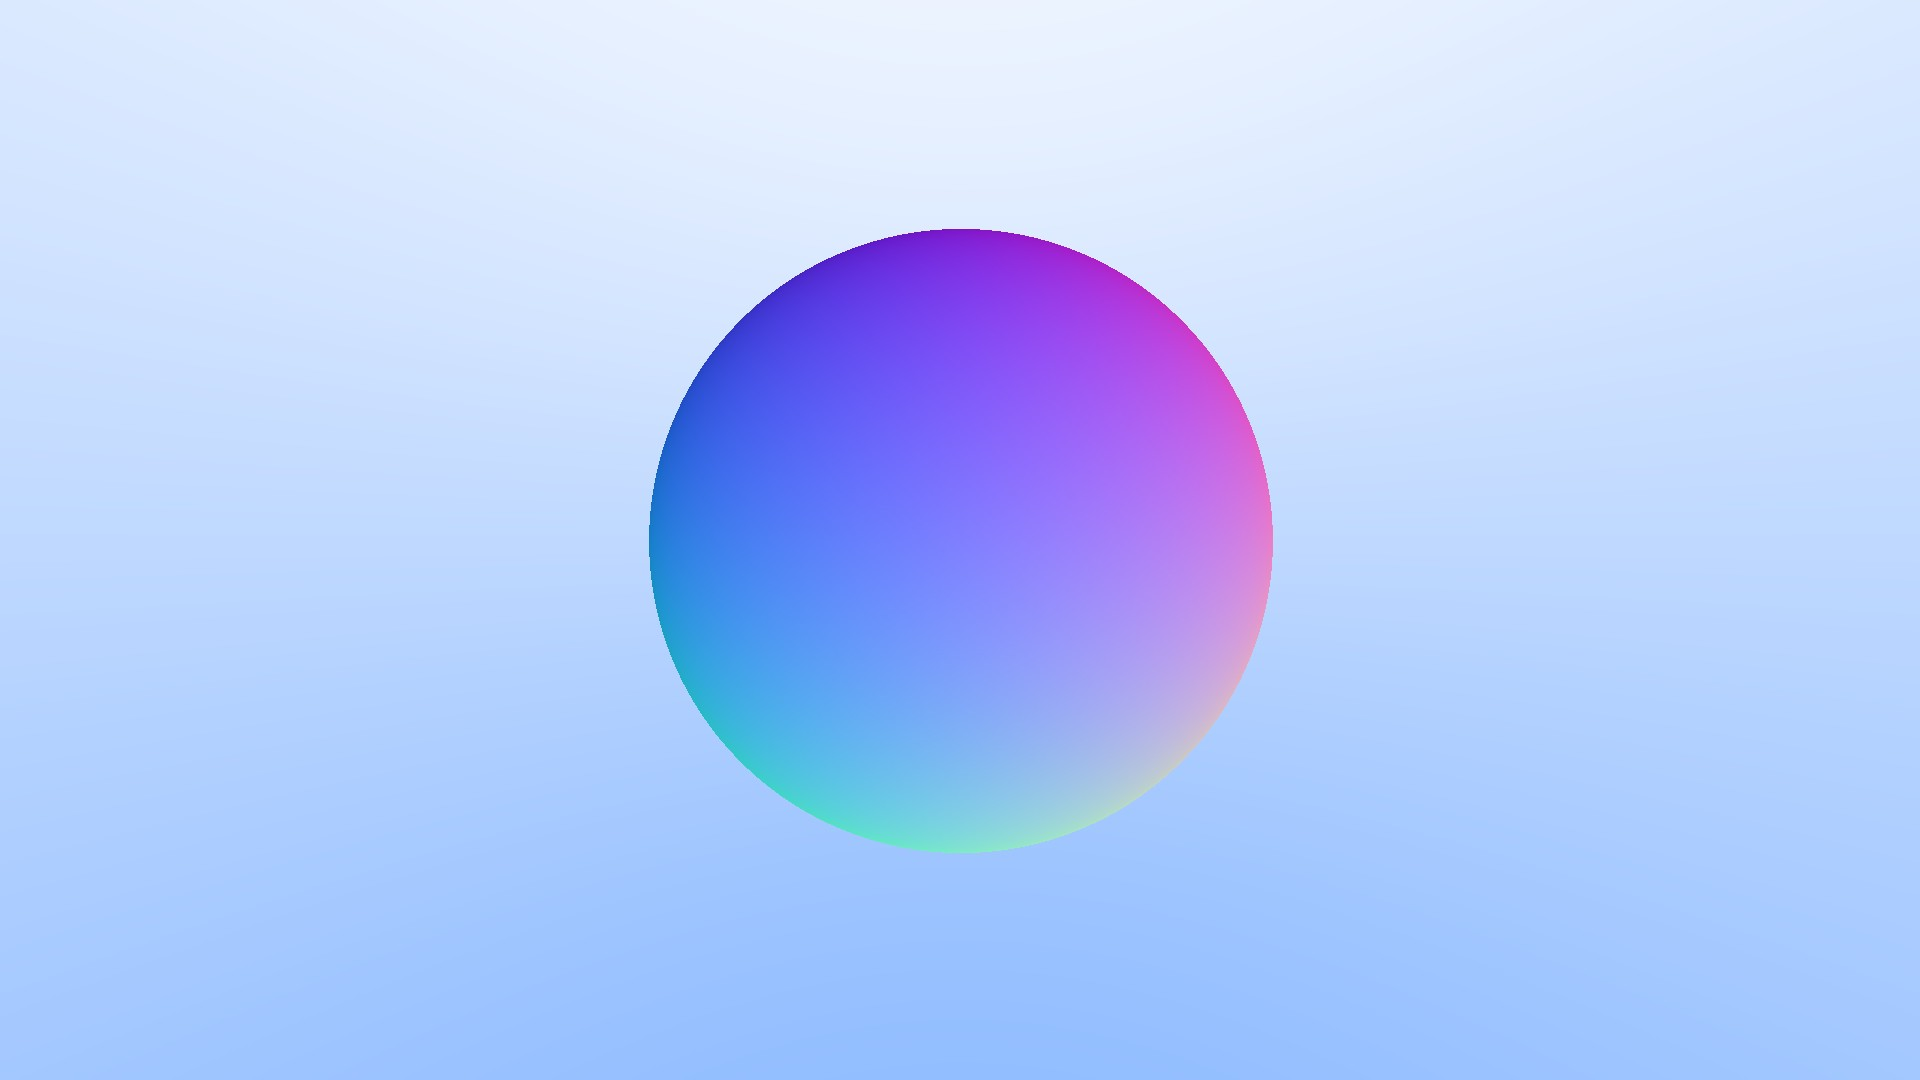
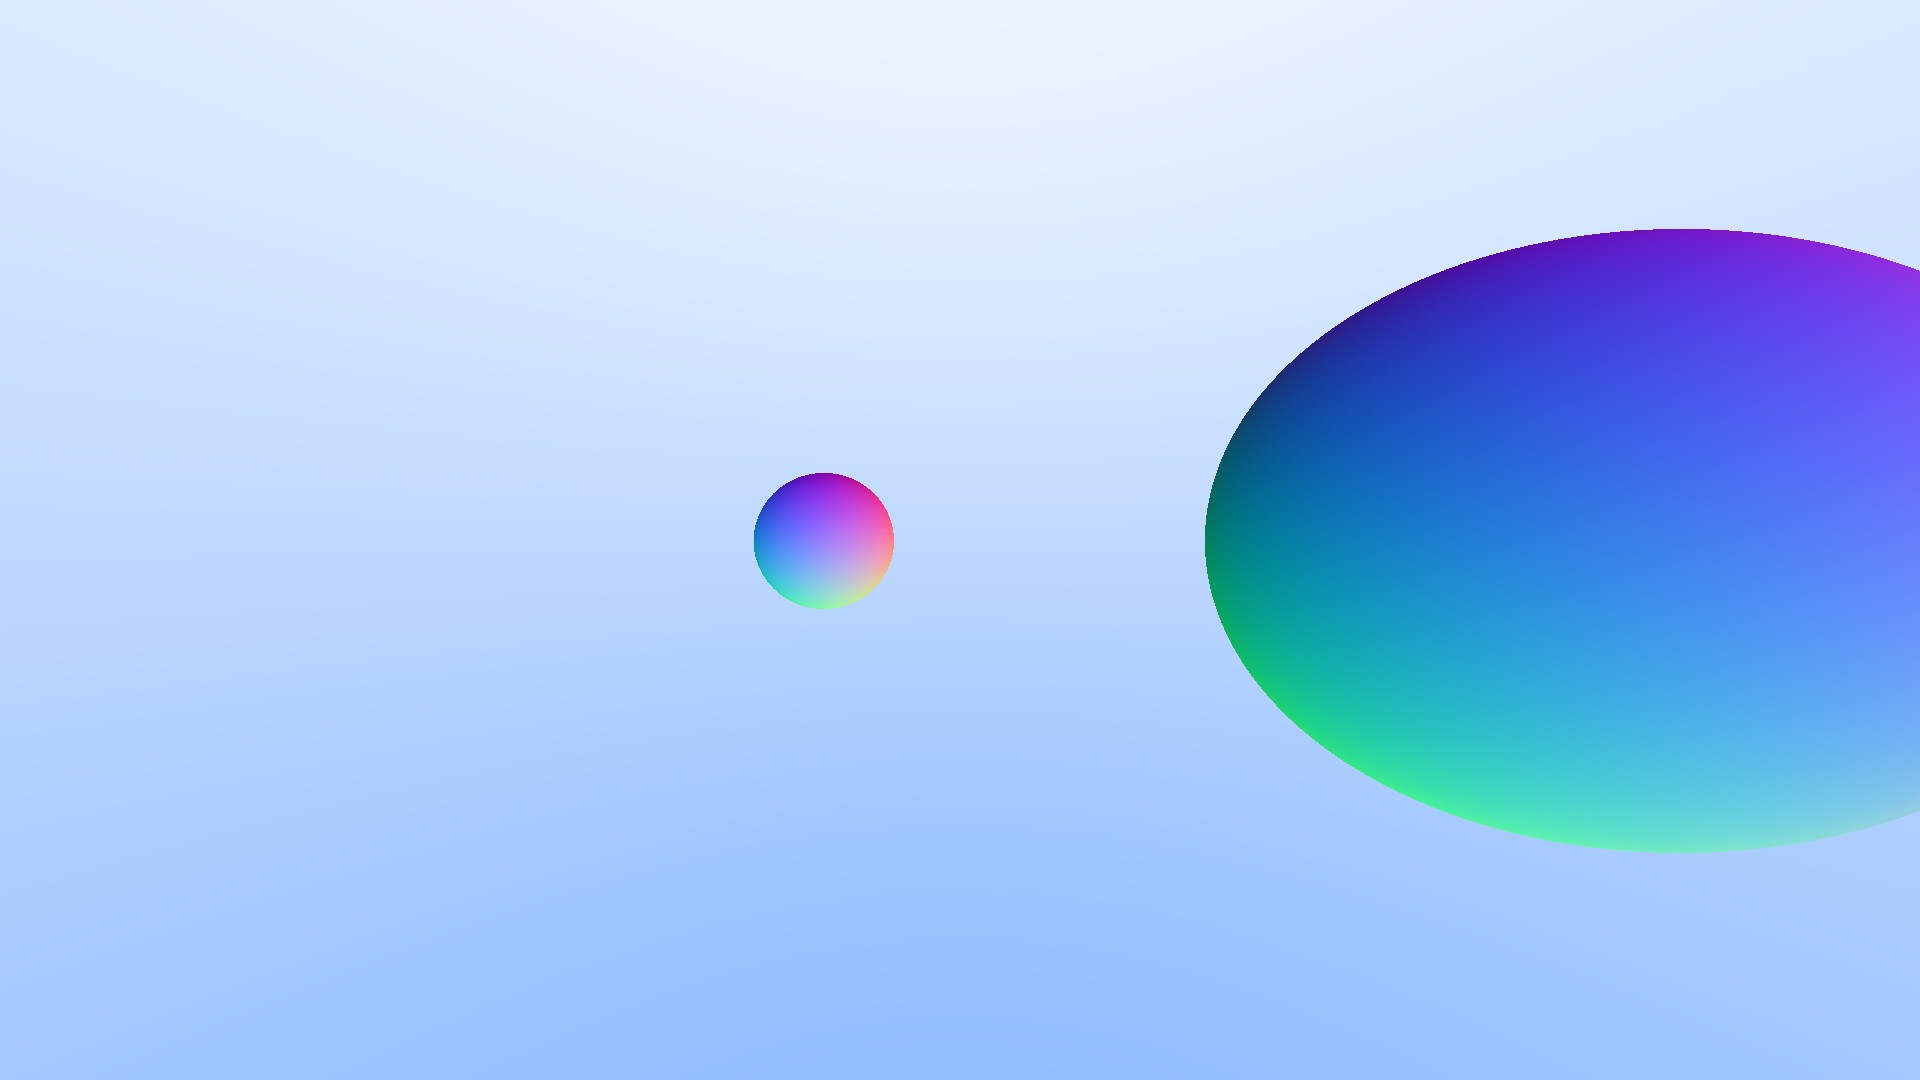
Added basic scene struct

diff --git a/cmd/raytracer/main.go b/cmd/raytracer/main.go
@@ -1,6 +1,7 @@
 package main
 
 import (
+	"encoding/json"
 	"image"
 	gocolor "image/color"
 	"image/jpeg"
@@ -8,15 +9,27 @@ import (
 	"raytracer/internal/color"
 	"raytracer/internal/object"
 	"raytracer/internal/ray"
+	"raytracer/internal/scene"
 	"raytracer/internal/vector"
 
 	_ "image/jpeg" // Needed for JPEG decoder
 )
 
-var testSphere object.Sphere
+var loadedScene scene.Scene
 
 func main() {
-	testSphere = object.NewSphere(vector.New(0, 0, -1), 0.5)
+	// Load in a scene file
+	f, err := os.Open("scenes/singleSphere.json")
+	if err != nil {
+		panic(err)
+	}
+
+	// Decode the scene
+	err = json.NewDecoder(f).Decode(&loadedScene)
+	if err != nil {
+		panic(err)
+	}
+	f.Close()
 
 	// Image config
 	const aspectRatio = 16.0 / 9.0
@@ -26,7 +39,7 @@ func main() {
 	// Camera config
 	const viewportHeight = 2.0
 	const viewportWidth = aspectRatio * viewportHeight
-	const focalLength = 1.0
+	const focalLength = 1
 
 	var origin = vector.Vector{0, 0, 0}
 	var horizontal = vector.Vector{viewportWidth, 0, 0}
@@ -46,7 +59,7 @@ func main() {
 	}
 
 	// Save image
-	f, err := os.Create("outimage.jpg")
+	f, err = os.Create("outimage.jpg")
 	if err != nil {
 		// Handle error
 	}
@@ -66,11 +79,25 @@ func main() {
 // Red to blue gradient based on y coord
 func colorRay(r ray.Ray) gocolor.RGBA {
 	var hit object.Hit
-	if testSphere.Intersect(&r, 0, 10, &hit) {
-		// Calculate the normal using the hit point and the sphere center
-		var normal = hit.Normal
+
+	// Go over all spheres
+	closest := 15.0 // tMax
+	hitSomething := false
+	var normal vector.Vector
+	for _, s := range loadedScene.Spheres {
+		if s.Intersect(&r, 0, 15, &hit) {
+			if hit.T < closest {
+				closest = hit.T
+				normal = hit.Normal
+				hitSomething = true
+			}
+		}
+	}
+
+	if hitSomething {
 		return color.New(float32(normal.X)+1, float32(normal.Y)+1, float32(normal.Z)+1).Mul(0.5, 0.5, 0.5).RGBA()
 	}
+
 	t := float32(0.5 * (r.Direction().Normalise().Y + 1.0))
 	return color.New(1, 1, 1).Mul(1-t, 1-t, 1-t).Add(color.New(0.5, 0.7, 1).Mul(t, t, t)).RGBA()
 }

diff --git a/internal/object/sphere.go b/internal/object/sphere.go
@@ -8,34 +8,24 @@ import (
 
 // Sphere is a sphere, duh
 type Sphere struct {
-	center vector.Vector
-	radius float64
+	Center vector.Vector `json:"center"`
+	Radius float64       `json:"radius"`
 }
 
 // NewSphere creates a new Sphere
 func NewSphere(center vector.Vector, radius float64) Sphere {
 	return Sphere{
-		center: center,
-		radius: radius,
+		Center: center,
+		Radius: radius,
 	}
-}
-
-// Center returns the sphere center
-func (s *Sphere) Center() vector.Vector {
-	return s.center
-}
-
-// Radius returns the sphere radius
-func (s *Sphere) Radius() float64 {
-	return s.radius
 }
 
 // Intersect calculates the intersection of a ray r with this sphere, between tMin and tMax
 func (s *Sphere) Intersect(r *ray.Ray, tMin, tMax float64, hit *Hit) bool {
-	var oc = r.Origin().Sub(s.center)
+	var oc = r.Origin().Sub(s.Center)
 	var a = math.Pow(r.Direction().Length(), 2)
 	var halfB = oc.Dot(r.Direction())
-	var c = math.Pow(oc.Length(), 2) - math.Pow(s.radius, 2)
+	var c = math.Pow(oc.Length(), 2) - math.Pow(s.Radius, 2)
 	var discriminant = math.Pow(halfB, 2) - a*c
 
 	// No hit
@@ -56,7 +46,7 @@ func (s *Sphere) Intersect(r *ray.Ray, tMin, tMax float64, hit *Hit) bool {
 
 	hit.T = root
 	hit.Point = r.At(root)
-	outwardNormal := hit.Point.Sub(s.center).Scale(1 / s.radius)
+	outwardNormal := hit.Point.Sub(s.Center).Scale(1 / s.Radius)
 	hit.SetFaceNormal(r, &outwardNormal)
 
 	return true

diff --git a/internal/scene/scene.go b/internal/scene/scene.go
@@ -1,0 +1,17 @@
+package scene
+
+import (
+	"raytracer/internal/object"
+	"raytracer/internal/vector"
+)
+
+// A Scene contains all objects
+// Can be loaded in from a JSON file
+type Scene struct {
+	Camera  camera          `json:"camera"`
+	Spheres []object.Sphere `json:"spheres"`
+}
+
+type camera struct {
+	Position vector.Vector `json:"position"`
+}

diff --git a/internal/vector/vector.go b/internal/vector/vector.go
@@ -4,7 +4,9 @@ import "math"
 
 // Vector is a 3 dimensional vector
 type Vector struct {
-	X, Y, Z float64
+	X float64 `json:"x"`
+	Y float64 `json:"y"`
+	Z float64 `json:"z"`
 }
 
 // New creates a new Vector
